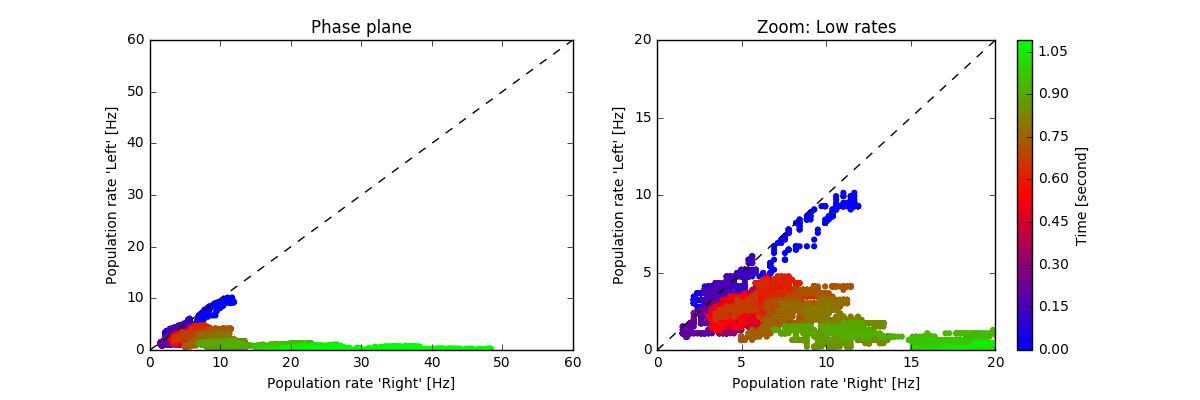
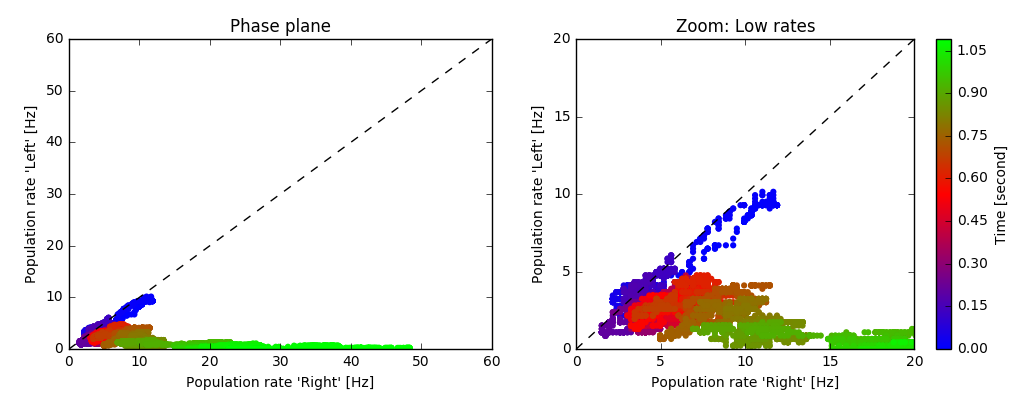
parameter fine-tuning and doc

diff --git a/neurodynex/competing_populations/decision_making.py b/neurodynex/competing_populations/decision_making.py
@@ -3,10 +3,11 @@ Implementation of a decision making model of
 [1] Wang, Xiao-Jing. "Probabilistic decision making by slow reverberation in cortical circuits."
 Neuron 36.5 (2002): 955-968.
 
-Some parts of this exercise are inspired by material found at
-Stanford Univeristy, BIOE 332: Large-Scale Neural Modeling, Kwabena Boahen and Tatiana Engel, 2013
+Some parts of this implementation are inspired by material from
+*Stanford University, BIOE 332: Large-Scale Neural Modeling, Kwabena Boahen & Tatiana Engel, 2013*,
+online available.
 
-Most parameters do NOT match those found in the original publication!
+Note: Most parameters differ from the original publication.
 """
 
 # This file is part of the exercise code repository accompanying
@@ -84,7 +85,7 @@ def sim_decision_making_network(N_Excit=384, N_Inhib=96, weight_scaling_factor=5
 
     """
 
-    print("sim start: {}".format(time.ctime()))
+    print("simulating {} neurons. Start: {}".format(N_Excit + N_Inhib, time.ctime()))
     t_stimulus_end = t_stimulus_start + t_stimulus_duration
 
     N_Group_A = int(N_Excit * f_Subpop_size)  # size of the excitatory subpopulation sensitive to stimulus A
@@ -379,10 +380,13 @@ def sim_decision_making_network(N_Excit=384, N_Inhib=96, weight_scaling_factor=5
 
 def run_multiple_simulations(
         f_get_decision_time, coherence_levels, nr_repetitions,
-        max_sim_time=123 * b2.ms, rate_threshold=5 * b2.Hz, avg_window_width=5 * b2.ms,
-        N_excit=384, N_inhib=96, weight_scaling=5.33,
+        max_sim_time=1. * b2.ms, rate_threshold=1. * b2.Hz, avg_window_width=1. * b2.ms,
+        N_excit=384, N_inhib=96, weight_scaling=5.33, w_pos=1.90,
+        # N_excit=512, N_inhib=128, weight_scaling=4., w_pos=1.85,
         t_stim_start=100 * b2.ms, t_stim_duration=9999 * b2.ms,
-        nu0_mean_stim_Hz=70., nu0_std_stim_Hz=20., stim_upd_interval=80 * b2.ms):
+        # nu0_mean_stim_Hz=100., nu0_std_stim_Hz=25., stim_upd_interval=80 * b2.ms
+        nu0_mean_stim_Hz=80., nu0_std_stim_Hz=20., stim_upd_interval=70 * b2.ms
+):
     """
 
     Args:
@@ -432,7 +436,7 @@ def run_multiple_simulations(
         for i_run in range(nr_repetitions):
             print("i_run={}".format(i_run))
             results = sim_decision_making_network(
-                N_Excit=N_excit, N_Inhib=N_inhib, weight_scaling_factor=weight_scaling,
+                N_Excit=N_excit, N_Inhib=N_inhib, weight_scaling_factor=weight_scaling, w_pos=w_pos,
                 t_stimulus_start=t_stim_start, t_stimulus_duration=t_stim_duration, coherence_level=c,
                 max_sim_time=max_sim_time, stop_condition_rate=rate_threshold,
                 nu0_mean_stimulus_Hz=nu0_mean_stim_Hz, nu0_std_stimulus_Hz=nu0_std_stim_Hz,
@@ -462,15 +466,15 @@ def getting_started():
     Returns:
 
     """
-    results = sim_decision_making_network(N_Excit=384, N_Inhib=96, weight_scaling_factor=5.33,
-                                          t_stimulus_start=100. * b2.ms, t_stimulus_duration=1000 * b2.ms,
-                                          coherence_level=+0.8,
+    results = sim_decision_making_network(N_Excit=341, N_Inhib=85, weight_scaling_factor=6.0,
+                                          t_stimulus_start=150. * b2.ms, t_stimulus_duration=1000 * b2.ms,
+                                          coherence_level=+0.95, w_pos=2.0, nu0_mean_stimulus_Hz=150 * b2.Hz,
                                           max_sim_time=1000. * b2.ms)
     plot_tools.plot_network_activity(results["rate_monitor_A"], results["spike_monitor_A"],
-                                     results["voltage_monitor_A"], t_min=0. * b2.ms, avg_window_width=25. * b2.ms,
+                                     results["voltage_monitor_A"], t_min=0. * b2.ms, avg_window_width=20. * b2.ms,
                                      sup_title="Left")
     plot_tools.plot_network_activity(results["rate_monitor_B"], results["spike_monitor_B"],
-                                     results["voltage_monitor_B"], t_min=0. * b2.ms, avg_window_width=25. * b2.ms,
+                                     results["voltage_monitor_B"], t_min=0. * b2.ms, avg_window_width=20. * b2.ms,
                                      sup_title="Right")
 
     plt.show()

diff --git a/neurodynex/working_memory_network/wm_model.py b/neurodynex/working_memory_network/wm_model.py
@@ -4,9 +4,12 @@ Literature:
 Compte, A., Brunel, N., Goldman-Rakic, P. S., & Wang, X. J. (2000). Synaptic mechanisms and
 network dynamics underlying spatial working memory in a cortical network model.
 Cerebral Cortex, 10(9), 910-923.
-This exercise is inspired by material found at
-Stanford Univeristy, BIOE 332: Large-Scale Neural Modeling, Kwabena Boahen and Tatiana Engel, 2013
 
+Some parts of this implementation are inspired by material from
+*Stanford University, BIOE 332: Large-Scale Neural Modeling, Kwabena Boahen & Tatiana Engel, 2013*,
+online available.
+
+Note: Most parameters differ from the original publication.
 """
 
 # This file is part of the exercise code repository accompanying
@@ -61,7 +64,7 @@ def simulate_wm(
             the excitatory population.
         Jpos_excit2excit (float): Strength of the recurrent input within the excitatory population.
             Jneg_excit2excit is computed from sigma_weight_profile, Jpos_excit2excit and the normalization
-             condition.
+            condition.
         stimulus_center_deg (float): Center of the stimulus in [0, 360]
         stimulus_width_deg (float): width of the stimulus. All neurons in
             stimulus_center_deg +\- (stimulus_width_deg/2) receive the same input current
@@ -72,7 +75,12 @@ def simulate_wm(
         sim_time (Quantity): simulation time
 
     Returns:
-        weight_profile_45
+
+       results (tuple):
+       rate_monitor_excit (Brian2 PopulationRateMonitor for the excitatory population),
+        spike_monitor_excit, voltage_monitor_excit, idx_monitored_neurons_excit,\
+        rate_monitor_inhib, spike_monitor_inhib, voltage_monitor_inhib, idx_monitored_neurons_inhib,\
+        weight_profile_45 (The weights profile for the neuron with preferred direction = 45deg).
     """
     # specify the excitatory pyramidal cells:
     Cm_excit = 0.5 * b2.nF  # membrane capacitance of excitatory neurons

diff --git a/doc/exercises/perceptual-decision-making.rst b/doc/exercises/perceptual-decision-making.rst
@@ -3,15 +3,20 @@ Perceptual Decision Making (Wong & Wang)
 
 In this exercise we study decision making in a network of competing populations of spiking neurons. The network has been proposed by Wong and Wang in 2006 [1] as a model of decision making in a visual motion detection task. The decision making task and the network are described in the book and in the original publication (see :ref:`location-references` [1]).
 
-To get a better understanding of the network, we recommend to solve the exercise :doc:`spatial-working-memory` first.
 
-The parameters of our implementation differ from the original paper. In particular, the default network simulates only 512 spiking neurons which leads to relatively short simulation time even on less powerful computers.
+.. _location-phase_plane:
 
 .. figure:: exc_images/DecisionMaking_PhasePlane_3.png
     :align: center
     :width: 100%
 
-    Phase plane. Each point represents the firing rates of the two subpopulation "Left" and "Right" at a given point in time (averaged over a short time window). The color encodes time. In this example, the decision "Right" is made after about 900 milliseconds.
+    Decision Space.
+    Each point represents the firing rates of the two subpopulations "Left" and "Right" at a given point in time (averaged over a short time window). The color encodes time. In this example, the decision "Right" is made after about 900 milliseconds.
+
+
+To get a better understanding of the network dynamics, we recommend to solve the exercise :doc:`spatial-working-memory`.
+
+The parameters of our implementation differ from the original paper. In particular, the default network simulates only 480 spiking neurons which leads to relatively short simulation time even on less powerful computers.
 
 
 **Book chapters**
@@ -53,7 +58,7 @@ Before we can analyse the decision making process and the simulation results, we
 Question: Understanding Brian2 Monitors
 ~~~~~~~~~~~~~~~~~~~~~~~~~~~~~~~~~~~~~~~
 
-The network shown in the figure above is implemented in Brian2 in the function  :func:`.competing_populations.decision_making.sim_decision_making_network`. Each subpopulation is a `Brian2 NeuronGroup <http://brian2.readthedocs.io/en/stable/user/models.html>`_. Look at the source code of the function :func:`.competing_populations.decision_making.sim_decision_making_network` to answer the following questions:
+The network shown in the figure above is implemented in Brian2 in the function  :func:`.competing_populations.decision_making.sim_decision_making_network`. Each subpopulation is a `Brian2 NeuronGroup <http://brian2.readthedocs.io/en/stable/user/models.html>`_. Look at the source code of the function :func:`.sim_decision_making_network` to answer the following questions:
 
 
 * For each of the four subpopulations, find the variable name of the corresponding `NeuronGroup <http://brian2.readthedocs.io/en/stable/user/models.html>`_.
@@ -112,12 +117,12 @@ The input stimulus is implemented by two inhomogenous Poisson processes: The sub
    \mu_{right} &=& \mu_0 * (0.5 - 0.5c)\\
    c &\in& [-1, +1]
 
-The coherence level ``c``, the maximum mean :math:`\mu_0` and the standard deviation :math:`\sigma` are parameters of :func:`.competing_populations.decision_making.sim_decision_making_network`.
+The coherence level ``c``, the maximum mean :math:`\mu_0` and the standard deviation :math:`\sigma` are parameters of :func:`.sim_decision_making_network`.
 
 Question: Coherence Level
 ~~~~~~~~~~~~~~~~~~~~~~~~~
 
-* Given the equation above and the documentation of the function :func:`.competing_populations.decision_making.sim_decision_making_network`, what are the mean firing rates :math:`\mu_{left}` and :math:`\mu_{right}` for each of the following values: c=-1, c= 0, c=0.2, c= +1
+* Given the equation above and the documentation of the function :func:`.sim_decision_making_network`, what are the mean firing rates :math:`\mu_{left}` and :math:`\mu_{right}` for each of the following values: c=-1, c= 0, c=0.2, c= +1
 
 * How does the default noise level :math:`\sigma` compare to the difference :math:`\mu_{left}-\mu_{right}`?
 
@@ -131,10 +136,10 @@ Run a few simulations with ``c=-0.3`` and ``c=+1``. Then plot the network activi
 * Look at the population rates. How long does it take the network to make a decision?
 
 
-Exercise: Visualizing the population rates in a phase plane
------------------------------------------------------------
+Exercise: Decision Space
+------------------------
 
-We can visualize the dynamics of the decision making process by plotting the activities of the two subpopulation representing "Left" / "Right" in a phase plane (see figure at the top of this page).
+We can visualize the dynamics of the decision making process by plotting the activities of the two subpopulation "Left" / "Right" in a phase plane (see figure at the top of this page). Such a phase plane of competing states is also known as the *Decision Space*. A discussion of the decision making process in the decision space is out of the scope of this exercise but we refer to :ref:`location-references` [1].
 
 Question: Plotting the phase plane
 ~~~~~~~~~~~~~~~~~~~~~~~~~~~~~~~~~~
@@ -182,18 +187,20 @@ You can pass your function get_decision_time() to :func:`.competing_populations.
 
     time_to_A, time_to_B, count_A, count_B, count_No = decision_making.run_multiple_simulations(get_decision_time,coherence_levels, nr_repetitions, max_sim_time=??, rate_threshold=?? avg_window_width=??)
 
-The return value ``time_to_A`` is a matrix of size [nr_of_c_levels x nr_of_repetitions]. ``count_A`` is the number of times the network decides for A (= "Left" by convention). The other values are analogous. When calling run_multiple_simulations, you have to set at least the parameters ``max_sim_time``, ``rate_threshold`` and ``avg_window_width``.
+The return value ``time_to_A`` is a matrix of size [nr_of_c_levels x nr_of_repetitions]. ``count_A`` is the number of times the network decides for A (= "Left" by convention). The other values are analogous.
+
+Check the documentation of :func:`.run_multiple_simulations` and set the parameters according to the findings in previous questions.
 
 Question: Percent-Correct, Time-to-decision, Time-to-wrong-decision
 ~~~~~~~~~~~~~~~~~~~~~~~~~~~~~~~~~~~~~~~~~~~~~~~~~~~~~~~~~~~~~~~~~~~
 
-Using :func:`.competing_populations.decision_making.run_multiple_simulations`, run at least 7 simulations for 2 different levels of coherence. If you have sufficient time/computing-power, you should run more repetitions and more levels, and you could even try larger networks. Set the parameters according to the findings in previous questions. Limit the simulated time to 1500ms.
+Using :func:`.run_multiple_simulations`, run at least 7 simulations for 2 different levels of coherence. The simulation stops either when a decision is made or after a maximum simulation time (set it to ~1500ms). If you have sufficient time/computing-power, you should run more repetitions and more levels, and you could even try larger networks. Then analyse your simulation results by visualizing the following statistics. For each of the questions, ignore the simulations with "no decision".
 
-* Visualize ``Percent correct`` versus ``coherence level``. You can treat the case "no decision" as "wrong decision".
+* Visualize ``Percent correct`` versus ``coherence level``.
 
-* Visualize ``Time to decision`` versus ``coherence level``. Ignore the case "no decision".
+* Visualize ``Time to decision`` versus ``coherence level``.
 
-* For each coherence-level, compare ``Time to correct decision`` to ``Time to wrong decision``. Ignore the case "no decision".
+* For each coherence-level, compare ``Time to correct decision`` to ``Time to wrong decision``.
 
 * Discuss your results
 

diff --git a/doc/exercises/spatial-working-memory.rst b/doc/exercises/spatial-working-memory.rst
@@ -52,7 +52,7 @@ Parameters that are not explicitly specified are set to default values. Read the
 * By default, how many neurons are in the external poisson population?
 * Using the default parameters, what is the average number of spikes/second an excitatory neuron receives from the external population?
 
-From the documentation, follow the 'source' link to go to the implementation of :func:`.working_memory_network.wm_model.simulate_wm`. Answer the following questions about the external poisson population:
+From the documentation, follow the 'source' link to go to the implementation of :func:`.simulate_wm`. Answer the following questions about the external poisson population:
 
 * We use the `Brian2 PoissonInput <http://brian2.readthedocs.io/en/stable/user/input.html>`_ to implement the external population. Which post-synaptic variable is targeted by a presynaptic (poisson) spike?
 * The dynamics of that variable are defined in the equations ``excit_lif_dynamics`` (still in the source code of simulate_wm). What is the time-scale of that variable (in milliseconds)?
@@ -79,7 +79,7 @@ Run the following code to simulate a network that receives unstructured poisson 
 Question: Weight profile
 ~~~~~~~~~~~~~~~~~~~~~~~~
 
-The function :func:`.working_memory_network.wm_model.simulate_wm` takes two parameters to define the weight profile: ``sigma_weight_profile`` and ``Jpos_excit2excit``. After the simulation you can access the return value weight_profile_45. This array contains the synaptic weights between the one postsynaptic neuron whose preferred direction is 45deg and all other (presynaptic) neurons. Our choice of 45deg is arbitrary, the profile for other neurons are shifted versions of this one.
+The function :func:`.simulate_wm` takes two parameters to define the weight profile: ``sigma_weight_profile`` and ``Jpos_excit2excit``. After the simulation you can access the return value weight_profile_45. This array contains the synaptic weights between the one postsynaptic neuron whose preferred direction is 45deg and all other (presynaptic) neurons. Our choice of 45deg is arbitrary, the profile for other neurons are shifted versions of this one.
 
 * Run the following code to simulate the network.
 * Increase ``Jpos_excit2excit``. How does the weight profile change (look at short and long ranges)?
@@ -171,7 +171,7 @@ The population vector ``theta`` changes over time due to drift and diffusion whi
 
 Write a function ``get_spike_count(spike_monitor, spike_index_list, t_min, t_max)`` which returns an array of spike counts per monitored neuron. Be careful about the indexing: ``spike_index_list`` is a list of ``k`` neuron indices in [0, N-1] while the returned array ``spike_count_list`` is of length ``k``.
 
-The parameter ``spike_monitor`` is the spike_monitor_excit returned by the function :func:`.working_memory_network.wm_model.simulate_wm`. The following pseudo-code and fragments are useful to implement ``get_spike_count``:
+The parameter ``spike_monitor`` is the spike_monitor_excit returned by the function :func:`.simulate_wm`. The following pseudo-code and fragments are useful to implement ``get_spike_count``:
 
 
 .. code-block:: py
@@ -260,7 +260,7 @@ The working memory circuit we study in this exercise combines three different re
 Question:
 ~~~~~~~~~
 
-The dynamics of the NMDA receptor are implemented in the function :func:`.working_memory_network.wm_model.simulate_wm`. Look for the equations ``excit_lif_dynamics`` in the source code.
+The dynamics of the NMDA receptor are implemented in the function :func:`.simulate_wm`. Look for the equations ``excit_lif_dynamics`` in the source code.
 
 * In the model used here, what is the timescale (in milliseconds) of the fast rise? What is the timescale of the slow decay?
 
